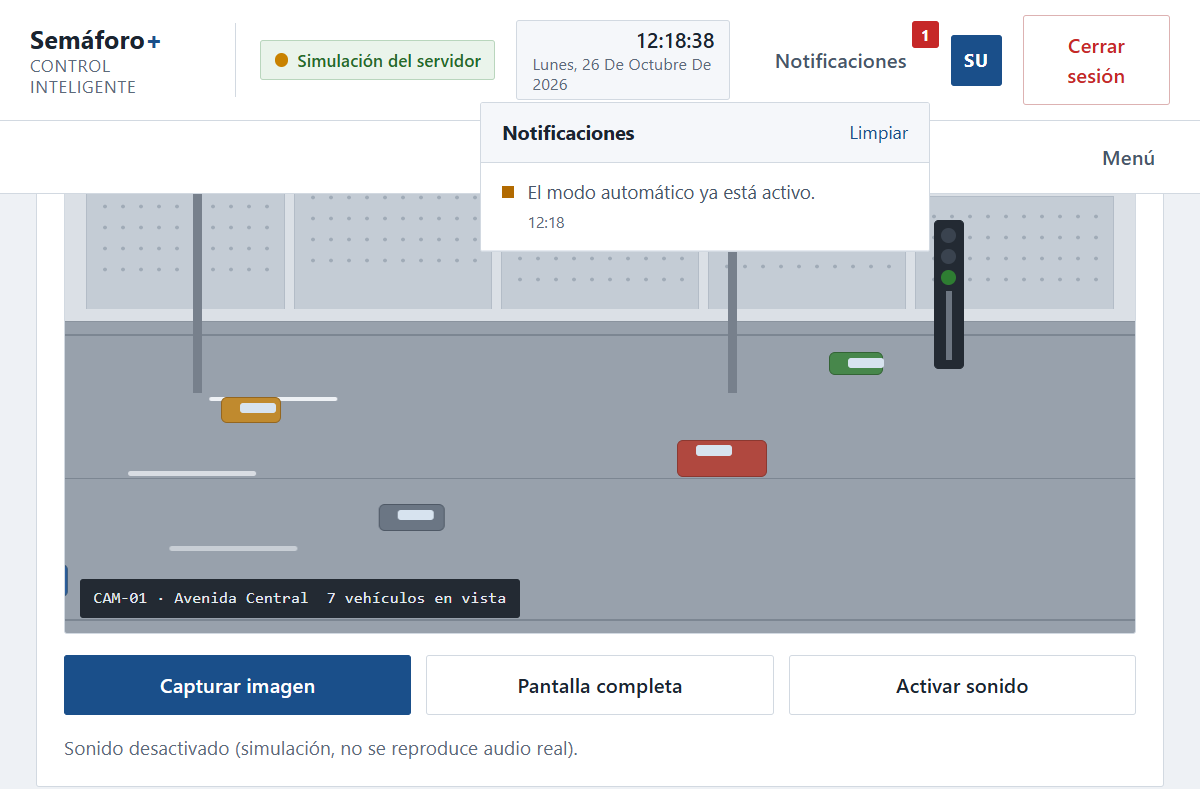
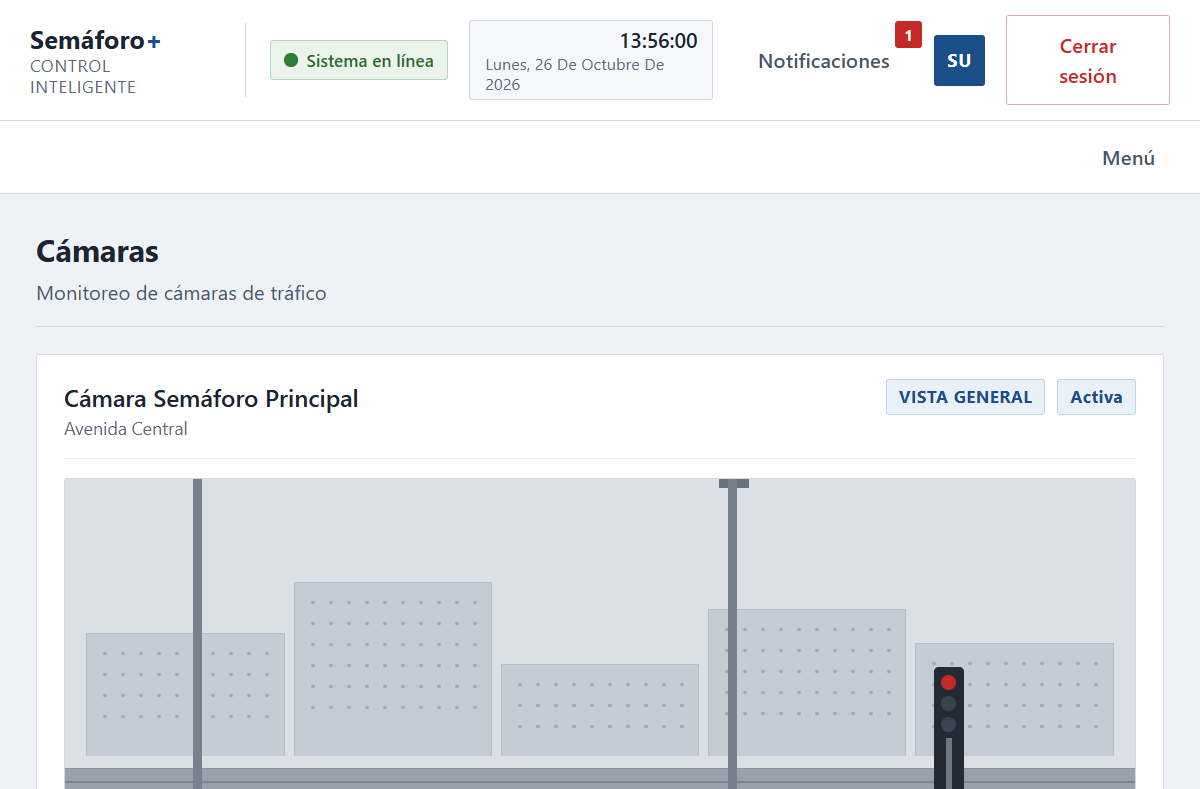
style: interfaz con textos profesionales, sin etiquetas de prototipo ni simulacion

diff --git a/backend/src/main/resources/static/index.html b/backend/src/main/resources/static/index.html
@@ -53,7 +53,7 @@
                 <span class="cargador" aria-hidden="true"></span>
             </button>
 
-            <p class="login-pie">Prototipo académico — autenticación validada por el servidor</p>
+            <p class="login-pie">Acceso seguro · Plataforma de monitoreo y control de tráfico</p>
         </form>
     </main>
 </div>
@@ -71,7 +71,7 @@
 
         <div class="cabecera-datos">
             <span class="chip chip-simulacion" id="chip-simulacion">
-                <span class="punto-punto verde"></span> Simulación activa
+                <span class="punto-punto verde"></span> Sistema en línea
             </span>
 
             <div class="reloj" id="reloj">
@@ -148,7 +148,7 @@
                         </header>
                         <dl class="lista-datos">
                             <div><dt>Dispositivo</dt><dd id="estado-dispositivo">Semáforo Principal</dd></div>
-                            <div><dt>Conexión</dt><dd id="estado-conexion">Simulación activa</dd></div>
+                            <div><dt>Conexión</dt><dd id="estado-conexion">En línea</dd></div>
                             <div><dt>Modo de control</dt><dd id="estado-modo">Automático</dd></div>
                             <div><dt>Última actualización</dt><dd id="estado-actualizacion">—</dd></div>
                         </dl>
@@ -192,9 +192,9 @@
                         <span class="insignia insignia-exito">En línea</span>
                     </header>
                     <ul class="lista-conexion" id="lista-conexion">
-                        <li><span class="punto-punto verde"></span> ESP32 simulado <small>conectado</small></li>
+                        <li><span class="punto-punto verde"></span> Controlador ESP32 <small>conectado</small></li>
                         <li><span class="punto-punto verde"></span> Sensor HC-SR04 <small>conectado</small></li>
-                        <li><span class="punto-punto verde"></span> Cámara simulada <small>transmitiendo</small></li>
+                        <li><span class="punto-punto verde"></span> Cámara de tráfico <small>transmitiendo</small></li>
                         <li><span class="punto-punto verde"></span> Enlace local <small>estable</small></li>
                     </ul>
                 </article>
@@ -229,7 +229,7 @@
                         <dl class="lista-datos">
                             <div><dt>Nombre</dt><dd id="info-nombre">Semáforo Principal</dd></div>
                             <div><dt>Ubicación</dt><dd id="info-ubicacion">Avenida Central</dd></div>
-                            <div><dt>Dispositivo</dt><dd id="info-dispositivo">ESP32 simulado</dd></div>
+                            <div><dt>Dispositivo</dt><dd id="info-dispositivo">Controlador ESP32</dd></div>
                             <div><dt>Estado</dt><dd id="info-estado">Operativo</dd></div>
                             <div><dt>Conexión</dt><dd id="info-conexion">Conectado</dd></div>
                         </dl>
@@ -273,14 +273,14 @@
 
                 <article class="tarjeta">
                     <header class="tarjeta-cabecera">
-                        <h2>Simulación del sensor</h2>
-                        <span class="tarjeta-pie">Sensores simulados en JavaScript · sin hardware</span>
+                        <h2>Pruebas del sensor</h2>
+                        <span class="tarjeta-pie">Ajuste manual de la distancia de detección</span>
                     </header>
                     <div class="grupo-botones grupo-cuatro">
-                        <button type="button" class="boton boton-primario-suave" id="btn-acercando">Simular vehículo acercándose</button>
-                        <button type="button" class="boton boton-primario-suave" id="btn-alejandose">Simular vehículo alejándose</button>
-                        <button type="button" class="boton" id="btn-via-libre">Simular vía libre</button>
-                        <button type="button" class="boton" id="btn-restablecer">Restablecer simulación</button>
+                        <button type="button" class="boton boton-primario-suave" id="btn-acercando">Vehículo cercano · 30 cm</button>
+                        <button type="button" class="boton boton-primario-suave" id="btn-alejandose">Vehículo alejado · 120 cm</button>
+                        <button type="button" class="boton" id="btn-via-libre">Vía libre</button>
+                        <button type="button" class="boton" id="btn-restablecer">Restablecer sensor</button>
                     </div>
                 </article>
             </section>
@@ -294,9 +294,8 @@
                             <p class="tarjeta-pie" id="camara-ubicacion">Avenida Central</p>
                         </div>
                         <div class="grupo-inline">
-                            <span class="insignia insignia-error" id="camara-simu">SIMULACIÓN</span>
-                            <span class="insignia insignia-info">LIVE</span>
-                            <span class="insignia insignia-info" id="camara-estado">Conectada — Simulación</span>
+                            <span class="insignia insignia-info">VISTA GENERAL</span>
+                            <span class="insignia insignia-info" id="camara-estado">Activa</span>
                         </div>
                     </header>
 
@@ -338,7 +337,7 @@
                         <button type="button" class="boton" id="btn-pantalla-completa">Pantalla completa</button>
                         <button type="button" class="boton" id="btn-sonido">Activar sonido</button>
                     </div>
-                    <p class="texto-ayuda texto-suave" id="estado-sonido">Sonido desactivado (simulación, no se reproduce audio real).</p>
+                    <p class="texto-ayuda texto-suave" id="estado-sonido">Sonido desactivado.</p>
                 </article>
             </section>
 
@@ -359,7 +358,7 @@
                     <article class="tarjeta">
                         <header class="tarjeta-cabecera">
                             <h2>Plano de la intersección</h2>
-                            <span class="tarjeta-pie">Esquema simulado</span>
+                            <span class="tarjeta-pie">Vista general</span>
                         </header>
                         <div class="mapa" id="mapa">
                             <div class="mapa-rejilla">
@@ -400,9 +399,8 @@
                             <div><dt>Última actualización</dt><dd id="mapa-actualizacion">—</dd></div>
                         </dl>
                         <p class="texto-ayuda texto-suave">
-                            La ruta azul representa el flujo monitoreado del prototipo.
-                            En una versión real la ruta se calcularía con un motor de rutas
-                            (Spring Boot + datos de tráfico) y se dibujaría sobre el mapa.
+                            La ruta azul representa el flujo vehicular monitoreado en la
+                            intersección y se actualiza con los datos de tráfico del sistema.
                         </p>
                     </article>
                 </div>
@@ -422,7 +420,7 @@
                 <article class="tarjeta">
                     <header class="tarjeta-cabecera">
                         <h2>Indicadores del periodo</h2>
-                        <span class="tarjeta-pie" id="stat-vehiculos-pie">Datos simulados</span>
+                        <span class="tarjeta-pie" id="stat-vehiculos-pie">Historial del periodo</span>
                     </header>
                     <dl class="lista-datos lista-datos-cuatro">
                         <div><dt>Total de vehículos detectados</dt><dd id="stat-vehiculos">24</dd></div>
@@ -436,7 +434,7 @@
                     <article class="tarjeta">
                         <header class="tarjeta-cabecera">
                             <h2>Vehículos detectados por hora</h2>
-                            <span class="tarjeta-pie">Simulación</span>
+                            <span class="tarjeta-pie">Historial</span>
                         </header>
                         <div class="grafico-barras" id="grafico-vehiculos"></div>
                     </article>
@@ -444,7 +442,7 @@
                     <article class="tarjeta">
                         <header class="tarjeta-cabecera">
                             <h2>Actividad semanal</h2>
-                            <span class="tarjeta-pie">Simulación</span>
+                            <span class="tarjeta-pie">Historial</span>
                         </header>
                         <div class="grafico-barras" id="grafico-semanal"></div>
                     </article>
@@ -454,7 +452,7 @@
                     <article class="tarjeta">
                         <header class="tarjeta-cabecera">
                             <h2>Porcentaje de tiempo por color</h2>
-                            <span class="tarjeta-pie">Simulación</span>
+                            <span class="tarjeta-pie">Historial</span>
                         </header>
                         <div class="grafico-donut">
                             <div class="donut" id="grafico-tiempos">
@@ -474,7 +472,7 @@
                     <article class="tarjeta">
                         <header class="tarjeta-cabecera">
                             <h2>Nivel de tráfico por zona</h2>
-                            <span class="tarjeta-pie">Simulación</span>
+                            <span class="tarjeta-pie">Historial</span>
                         </header>
                         <ul class="barras-horizontal" id="grafico-trafico"></ul>
                     </article>
@@ -509,10 +507,9 @@
                     </div>
 
                     <p class="texto-ayuda texto-suave">
-                        Los usuarios se guardan en la base de datos H2 del backend (tabla
-                        <code>usuarios</code>) y la contraseña se almacena cifrada con BCrypt.
-                        Como H2 está en memoria, los usuarios creados se pierden al reiniciar
-                        el servidor; las cuentas demo se vuelven a crear al arrancar.
+                        Las cuentas se almacenan de forma segura y las contraseñas se guardan
+                        cifradas, nunca en texto plano. Las cuentas iniciales se crean
+                        automáticamente al iniciar el sistema.
                     </p>
                 </article>
             </section>
@@ -617,7 +614,7 @@
                     <strong id="nombre-usuario-menu">—</strong>
                 </span>
                 <span class="pie-rol" id="rol-usuario-menu">—</span>
-                <span class="pie-nota" id="pie-nota">Backend Spring Boot · esperando estado del servidor</span>
+                <span class="pie-nota" id="pie-nota">Sistema en línea · esperando datos</span>
             </footer>
         </main>
     </div>

diff --git a/backend/src/main/resources/static/conexion.js b/backend/src/main/resources/static/conexion.js
@@ -38,8 +38,7 @@
     }
 
     function colorPunto(estado) {
-        if (estado === 'real') { return 'verde'; }
-        if (estado === 'simulado') { return 'amarillo'; }
+        if (estado === 'real' || estado === 'simulado') { return 'verde'; }
         return 'gris';
     }
 
@@ -47,38 +46,38 @@
 
     function pintarConexion(dto) {
         var tipo = dto.esp32Conectado ? 'real' : 'simulado';
-        var etiqueta = dto.esp32Conectado ? 'ESP32 conectado' : 'Simulación del servidor';
-        var detalle = dto.esp32Conectado ? 'conectado' : 'simulado';
+        var etiqueta = dto.esp32Conectado ? 'ESP32 conectado' : 'Sistema en línea';
+        var detalle = dto.esp32Conectado ? 'conectado' : 'local';
 
         var chip = porId('chip-simulacion');
         if (chip) {
             chip.innerHTML = '<span class="punto-punto ' + colorPunto(tipo) + '"></span> ' + etiqueta;
-            chip.title = 'Origen de los datos: ' + (dto.origen || 'SIMULADO');
+            chip.title = 'Datos actualizados automáticamente';
         }
 
         texto('estado-conexion', etiqueta);
-        texto('info-conexion', dto.esp32Conectado ? 'Conectado' : 'Simulado');
-        texto('sensor-conexion', dto.esp32Conectado ? 'Conectado' : 'Simulado');
+        texto('info-conexion', dto.esp32Conectado ? 'Conectado' : 'En línea');
+        texto('sensor-conexion', dto.esp32Conectado ? 'Conectado' : 'En línea');
         texto('estado-dispositivo', dto.dispositivo || 'Semáforo Principal');
-        texto('info-dispositivo', dto.dispositivo || 'ESP32');
+        texto('info-dispositivo', dto.dispositivo || 'Controlador ESP32');
         texto('info-ubicacion', dto.ubicacion || 'Avenida Central');
 
         var lista = porId('lista-conexion');
         if (lista) {
             lista.innerHTML =
-                '<li><span class="punto-punto verde"></span> ESP32 <small>' + detalle + '</small></li>' +
+                '<li><span class="punto-punto verde"></span> Controlador ESP32 <small>' + detalle + '</small></li>' +
                 '<li><span class="punto-punto ' + colorPunto(tipo) + '"></span> Sensor HC-SR04 <small>' +
                 (dto.distanciaCm + ' cm') + '</small></li>' +
                 '<li><span class="punto-punto ' + (dto.camaraConectada ? 'verde' : 'gris') +
                 '"></span> Cámara <small>' + (dto.camaraConectada ? 'activa' : 'sin conexión') + '</small></li>' +
-                '<li><span class="punto-punto verde"></span> Backend Spring Boot <small>en línea</small></li>';
+                '<li><span class="punto-punto verde"></span> Servidor <small>en línea</small></li>';
         }
 
         var pie = porId('pie-nota');
         if (pie) {
-            pie.textContent = 'Backend Spring Boot · ' + (dto.esp32Conectado
-                ? 'telemetría real del ESP32'
-                : 'simulación generada por el servidor');
+            pie.textContent = 'Sistema en línea · ' + (dto.esp32Conectado
+                ? 'telemetría del dispositivo'
+                : 'datos actualizados');
         }
 
         conexion.totalLecturas = Number(dto.totalLecturas) || 0;
@@ -88,24 +87,24 @@
         var chip = porId('chip-simulacion');
         if (chip) {
             chip.innerHTML = '<span class="punto-punto gris"></span> Modo local (sin servidor)';
-            chip.title = 'El backend no responde; se usa la simulación del navegador.';
+            chip.title = 'El servidor no responde; se muestran los datos locales.';
         }
         texto('estado-conexion', 'Servidor no disponible');
-        texto('info-conexion', 'Simulación local');
-        texto('sensor-conexion', 'Simulación local');
+        texto('info-conexion', 'Datos locales');
+        texto('sensor-conexion', 'Datos locales');
 
         var lista = porId('lista-conexion');
         if (lista) {
             lista.innerHTML =
-                '<li><span class="punto-punto gris"></span> Backend Spring Boot <small>sin conexión</small></li>' +
-                '<li><span class="punto-punto amarillo"></span> Sensor local <small>simulado</small></li>' +
-                '<li><span class="punto-punto amarillo"></span> Simulación del navegador <small>activa</small></li>';
+                '<li><span class="punto-punto gris"></span> Servidor <small>sin conexión</small></li>' +
+                '<li><span class="punto-punto amarillo"></span> Sensor local <small>activo</small></li>' +
+                '<li><span class="punto-punto amarillo"></span> Datos locales <small>disponibles</small></li>';
         }
 
         if (!conexion.avisoMostrado) {
             conexion.avisoMostrado = true;
             if (typeof mostrarNotificacion === 'function') {
-                mostrarNotificacion('Sin conexión con el servidor: usando simulación local.', 'advertencia');
+                mostrarNotificacion('Sin conexión con el servidor: mostrando datos locales.', 'advertencia');
             }
         }
     }
@@ -172,7 +171,7 @@
             .then(function (dto) { aplicarEstado(dto); })
             .catch(function (error) {
                 if (typeof mostrarNotificacion === 'function') {
-                    mostrarNotificacion('Simulación no disponible: ' + error.message, 'advertencia');
+                    mostrarNotificacion('Acción no disponible: ' + error.message, 'advertencia');
                 }
             });
     }
@@ -251,7 +250,7 @@
             if (conexion.disponible) {
                 if (conexion.esp32) {
                     if (typeof mostrarNotificacion === 'function') {
-                        mostrarNotificacion('El ESP32 está conectado: la simulación está deshabilitada.', 'advertencia');
+                        mostrarNotificacion('El ESP32 está conectado: los controles manuales del sensor están deshabilitados.', 'advertencia');
                     }
                     return undefined;
                 }

diff --git a/backend/src/main/resources/static/app.js b/backend/src/main/resources/static/app.js
@@ -41,12 +41,12 @@ const SECCIONES = {
     },
     semaforos: {
         titulo: 'Semáforos',
-        descripcion: 'Control de semáforos, modos de operación y sensor simulado',
+        descripcion: 'Control de semáforos, modos de operación y sensor de proximidad',
         soloSuperadmin: false
     },
     camaras: {
         titulo: 'Cámaras',
-        descripcion: 'Monitoreo de cámaras — transmisión simulada',
+        descripcion: 'Monitoreo de cámaras de tráfico',
         soloSuperadmin: false
     },
     mapa: {
@@ -56,7 +56,7 @@ const SECCIONES = {
     },
     estadisticas: {
         titulo: 'Estadísticas',
-        descripcion: 'Estadísticas del sistema — datos simulados',
+        descripcion: 'Indicadores y estadísticas del sistema',
         soloSuperadmin: false
     },
     usuarios: {
@@ -794,8 +794,8 @@ function restablecerSimulacion() {
     setTexto('info-modo-ayuda', 'El sistema controla el semáforo automáticamente.');
     actualizarControlesModo();
     actualizarSemaforo();
-    agregarActividad('Simulación restablecida a valores iniciales.');
-    mostrarNotificacion('Simulación restablecida.', 'info');
+    agregarActividad('Sensor restablecido a valores iniciales.');
+    mostrarNotificacion('Sensor restablecido.', 'info');
 }
 
 /* ============= 7. DASHBOARD, MAPA Y CÁMARA SIMULADOS =================== */
@@ -818,7 +818,7 @@ function actualizarDashboard() {
 
     setTexto('estado-general', 'Operativo');
     setTexto('estado-dispositivo', 'Semáforo Principal');
-    setTexto('estado-conexion', 'Simulación activa');
+    setTexto('estado-conexion', 'En línea');
     setTexto('estado-actualizacion', auxiliar.ultimaLectura || horaActual());
     setTexto('estado-modo', estadoAplicacion.modo === 'automatico' ? 'Automático' : 'Manual');
 
@@ -900,8 +900,8 @@ function alternarSonido() {
         boton.textContent = auxiliar.sonidoCamara ? 'Desactivar sonido' : 'Activar sonido';
     }
     setTexto('estado-sonido', auxiliar.sonidoCamara
-        ? 'Sonido activado (simulación: se emite un pitido corto al capturar).'
-        : 'Sonido desactivado (simulación, no se reproduce audio real).');
+        ? 'Sonido activado: se emite un aviso al capturar.'
+        : 'Sonido desactivado.');
 
     mostrarNotificacion(auxiliar.sonidoCamara ? 'Sonido de cámara activado.' : 'Sonido de cámara desactivado.', 'info');
 }
@@ -939,7 +939,7 @@ function renderizarEstadisticas(periodo) {
         : datos.vehiculoTotal;
 
     setTexto('stat-vehiculos', String(total));
-    setTexto('stat-vehiculos-pie', 'Datos simulados · ' + datos.etiqueta.toLowerCase());
+    setTexto('stat-vehiculos-pie', 'Historial del periodo · ' + datos.etiqueta.toLowerCase());
     setTexto('stat-espera', datos.espera);
     setTexto('stat-cambios', String(auxiliar.cambiosColor + datos.cambios));
     setTexto('stat-hora-pico', datos.horaPico);
@@ -1327,14 +1327,14 @@ function poblarFormularioConfiguracion() {
     actualizarVistaPreviaCamara();
     setTexto('camara-nombre', config.camaraNombre);
     estadoAplicacion.camaraConectada = config.camaraEstado === 'activada';
-    setTexto('camara-estado', estadoAplicacion.camaraConectada ? 'Conectada — Simulación' : 'Desactivada — Simulación');
+    setTexto('camara-estado', estadoAplicacion.camaraConectada ? 'Activa' : 'Desactivada');
 }
 
 function actualizarVistaPreviaCamara() {
     const campo = porId('config-camara-calidad');
     const calidad = campo ? campo.value : '1080p';
     const medidas = { '1080p': '1920×1080', '720p': '1280×720', '480p': '854×480' };
-    setTexto('vista-previa-config', calidad + ' · ' + (medidas[calidad] || '—') + ' (simulado)');
+    setTexto('vista-previa-config', calidad + ' · ' + (medidas[calidad] || '—'));
 }
 
 function guardarConfiguracion() {
